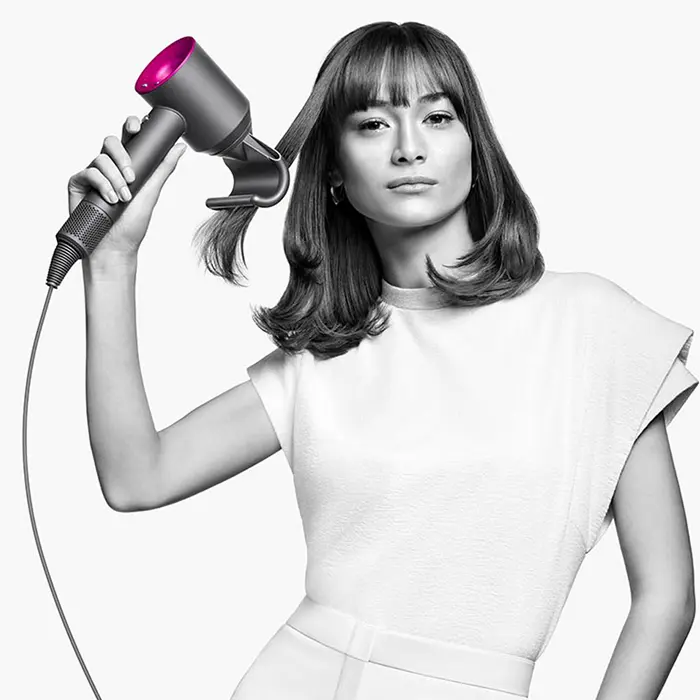
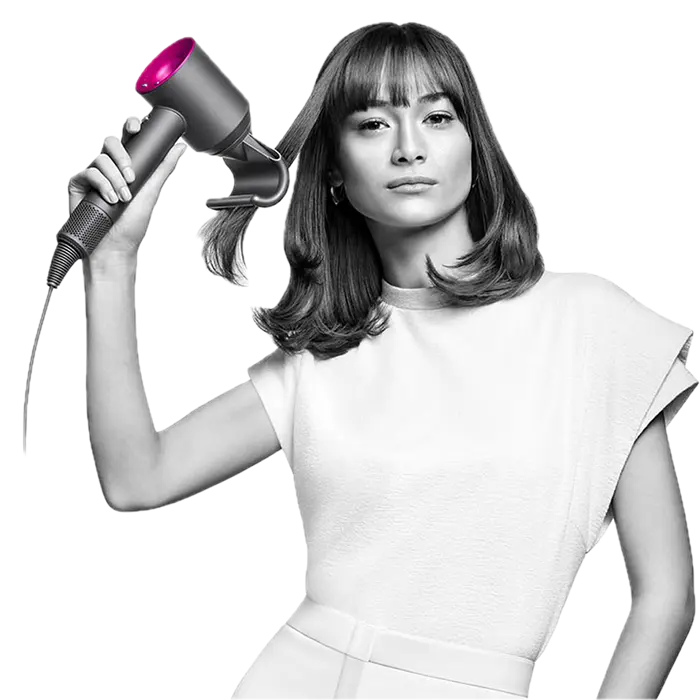
Add files via upload

diff --git a/dyson/index.html b/dyson/index.html
@@ -123,10 +123,10 @@
             <p class="hero__text text">
               Идеальная укладка для всех типов волос вместе с Dyson
             </p>
-            <button class="hero__button text">Подробнее</button>
-            <picture>
+            <a class="hero__button text">Подробнее</a>
+            <picture class="hero__img">
+              <source srcset="./images/woman-with-dyson.webp">
               <img
-                class="hero__img"
                 width="745"
                 height="803"
                 src="./images/woman-with-dyson.png"
@@ -545,53 +545,57 @@
           </div>
         </div>
       </section>
+      <section class="development">
+        <div class="container">
+          <div class="development__container">
+            <h2 class="development__title development__title-1">Базовый вектор развития</h2>
+            <p class="development__text">Фены Dyson универсальны. Они подходят для сушки разных типов волос. Насадки из комплекта помогают создавать укладки на любой вкус. Функциональность девайсов впечатляет не меньше, чем их уникальный дизайн.</p>
+            <h2 class="development__title development__title-2">Базовый вектор развития</h2>
+            <p class="development__text">Фены Dyson универсальны. Они подходят для сушки разных типов волос. Насадки из комплекта помогают создавать укладки на любой вкус. Функциональность девайсов впечатляет не меньше, чем их уникальный дизайн.</p>
+            <h2 class="development__title development__title-3">Базовый вектор развития</h2>
+            <p class="development__text">Фены Dyson универсальны. Они подходят для сушки разных типов волос. Насадки из комплекта помогают создавать укладки на любой вкус. Функциональность девайсов впечатляет не меньше, чем их уникальный дизайн.</p>
+            <h2 class="development__title development__title-4">Базовый вектор развития</h2>
+            <p class="development__text">Фены Dyson универсальны. Они подходят для сушки разных типов волос. Насадки из комплекта помогают создавать укладки на любой вкус. Функциональность девайсов впечатляет не меньше, чем их уникальный дизайн.</p>
+            <h2 class="development__title development__title-5">Базовый вектор развития</h2>
+            <p class="development__text">Фены Dyson универсальны. Они подходят для сушки разных типов волос. Насадки из комплекта помогают создавать укладки на любой вкус. Функциональность девайсов впечатляет не меньше, чем их уникальный дизайн.</p>
+          </div>
+        </div>
+      </section>
       <section class="about">
         <div class="container">
           <div class="about__container">
-            <!-- <h2 class="about-title-1">Базовый вектор развития</h2>
-            <p class="about-text-1">Фены Dyson универсальны. Они подходят для сушки разных типов волос. Насадки из комплекта помогают создавать укладки на любой вкус. Функциональность девайсов впечатляет не меньше, чем их уникальный дизайн.</p>
-            <h2 class="about-title-2">Базовый вектор развития</h2>
-            <p class="about-text-2">Фены Dyson универсальны. Они подходят для сушки разных типов волос. Насадки из комплекта помогают создавать укладки на любой вкус. Функциональность девайсов впечатляет не меньше, чем их уникальный дизайн.</p>
-            <h2 class="about-title-3">Базовый вектор развития</h2>
-            <p class="about-text-3">Фены Dyson универсальны. Они подходят для сушки разных типов волос. Насадки из комплекта помогают создавать укладки на любой вкус. Функциональность девайсов впечатляет не меньше, чем их уникальный дизайн.</p>
-            <h2 class="about-title-4">Базовый вектор развития</h2>
-            <p class="about-text-4">Фены Dyson универсальны. Они подходят для сушки разных типов волос. Насадки из комплекта помогают создавать укладки на любой вкус. Функциональность девайсов впечатляет не меньше, чем их уникальный дизайн.</p>
-            <h2 class="about-title-5">Базовый вектор развития</h2>
-            <p class="about-text-5">Фены Dyson универсальны. Они подходят для сушки разных типов волос. Насадки из комплекта помогают создавать укладки на любой вкус. Функциональность девайсов впечатляет не меньше, чем их уникальный дизайн.</p> -->
             <h2 class="about__title title-42fz">
               Мнение экспертов о технике Dyson
             </h2>
-            <div class="about__container-text">
-              <p class="about__text text">
-                Сегодня многие стилисты и салоны красоты в своей работе
-                используют технику от Dyson.
-              </p>
-              <p class="about__text text">
-                Несмотря на высокую стоимость, техника Dyson помогает экономить.
-                Мастера тратят меньше времени на сушку и укладку волос,
-                благодаря чему успевают обслужить большее количество клиентов.
-                Также устройства от Dyson потребляют значительно меньше
-                электроэнергии, не теряя свою мощность.
-              </p>
-              <p class="about__text text">
-                Фены Dyson универсальны. Они подходят для сушки разных типов
-                волос. Насадки из комплекта помогают создавать укладки на любой
-                вкус. Функциональность девайсов впечатляет не меньше, чем их
-                уникальный дизайн.
-              </p>
-              <p class="about__text text">
-                Ведущие стилисты отмечают, что техника Dyson для ухода за
-                волосами идеально подходят для длительной работы за счет своей
-                эргономичности. А за счет бесшумности инновационного мотора
-                использование устройств стало максимально комфортным.
-              </p>
-            </div>
+            <p class="about__text text">
+              Сегодня многие стилисты и салоны красоты в своей работе используют
+              технику от Dyson.
+            </p>
+            <p class="about__text text">
+              Несмотря на высокую стоимость, техника Dyson помогает экономить.
+              Мастера тратят меньше времени на сушку и укладку волос, благодаря
+              чему успевают обслужить большее количество клиентов. Также
+              устройства от Dyson потребляют значительно меньше электроэнергии,
+              не теряя свою мощность.
+            </p>
+            <p class="about__text text">
+              Фены Dyson универсальны. Они подходят для сушки разных типов
+              волос. Насадки из комплекта помогают создавать укладки на любой
+              вкус. Функциональность девайсов впечатляет не меньше, чем их
+              уникальный дизайн.
+            </p>
+            <p class="about__text text">
+              Ведущие стилисты отмечают, что техника Dyson для ухода за волосами
+              идеально подходят для длительной работы за счет своей
+              эргономичности. А за счет бесшумности инновационного мотора
+              использование устройств стало максимально комфортным.
+            </p>
             <picture class="about__img">
               <source srcset="./images/woman-about.webp" />
               <img
-              width="700"
-              height="700"
-              loading="lazy"
+                width="700"
+                height="700"
+                loading="lazy"
                 src="./images/woman-about.png"
                 alt="Девушка в черно-белом цвете показывает действие фена dyson с специальной насадкой на своих волосах"
               />

diff --git a/dyson/css/block/hero.css b/dyson/css/block/hero.css
@@ -8,37 +8,41 @@
   display: flex;
   flex-direction: column;
   justify-content: center;
-  padding: clamp(80px, -2.8rem + 20vw, 400px) 0 clamp(285px, 14.99rem + 7.2vw, 400px);
+  padding: clamp(50px, -8.413rem + 32.05vw, 250px) 0 clamp(178px, 7.317rem + 10.58vw, 244px);
 }
 
 
 .hero__title {
+  /* minwidth 576px maxwidth 1200px*/
+  max-width: clamp(290px, 2.779rem + 42.63vw, 556px);
   position: relative;
-  font-size: 46px;
+  /* minwidth 576px maxwidth 1200px*/
+  font-size: clamp(24px, 0.231rem + 3.53vw, 46px);
   line-height: 103%;
-  padding-bottom: 40px;
+  /* minwidth 576px maxwidth 1200px*/
+  margin-bottom: clamp(16px, -0.385rem + 3.85vw, 40px);
   z-index: var(--layer-2);
 }
 
 .hero__text {
-  position: relative;
-  font-size: 26px;
+  /* minwidth 576px maxwidth 1200px*/
+  max-width: clamp(170px, -11.529rem + 61.54vw, 554px);
+  /* minwidth 576px maxwidth 1200px*/
+  font-size: clamp(12px, -0.058rem + 2.24vw, 26px);
   line-height: 130%;
-  padding-bottom: 90px;
+  margin-bottom: clamp(30px, -1.587rem + 9.62vw, 90px);
   z-index: var(--layer-2);
 }
 
 .hero__button {
-  position: relative;
-  font-size: 24px;
+  max-width: clamp(141px, 3.389rem + 15.06vw, 235px);
+  /* minwidth 576px maxwidth 1200px*/
+  font-size: clamp(16px, 0.538rem + 1.28vw, 24px);
   line-height: 100%;
   color: var(--main-color);
-  width: 235px;
-  height: 64px;
+  /* minwidth 576px maxwidth 1200px*/
+  padding: clamp(7px, -0.082rem + 1.44vw, 16px) clamp(27px, 0.245rem + 4.01vw, 57px);
   border-radius: 3px;
-  display: flex;
-  justify-content: center;
-  align-items: center;
   background-color: var(--accent-color);
   transition: opacity var(--transition-time);
 }
@@ -54,4 +58,13 @@
   position: absolute;
   right: 0;
   bottom: 0;
+  width: clamp(17.5rem, -9.327rem + 74.52vw, 46.563rem);
+  height: auto;
+  pointer-events: none;
+}
+
+.hero__img img {
+  width: 100%;
+  height: auto;
+  display: block;
 }

diff --git a/dyson/css/block/development.css b/dyson/css/block/development.css
@@ -1,0 +1,70 @@
+.development {
+  display: none;
+  background-color: var(--main-color-grey);
+}
+
+@media (width <= 768px) {
+  .development {
+    display: block;
+  }
+}
+
+@media (width > 576px) {
+  .development__container {
+    padding: 60px 0 70px;
+  }
+}
+@media (width <= 576px) {
+  .development__container {
+    padding: 46px 0;
+  }
+}
+
+.development__text {
+  font-family: var(--font-family);
+  font-weight: 300;
+  font-size: 12px;
+  line-height: 140%;
+}
+
+@media (width >576px) {
+  .development__text {
+    margin-bottom: 40px;
+  }
+
+}
+@media (width <=576px) {
+  .development__text {
+    margin-bottom: 30px;
+  }
+}
+
+.development__title  {
+  font-family: var(--font-family-namu);
+}
+@media (width >576px) {
+  .development__title {
+    margin-bottom: 20px;
+  }
+}
+@media (width <= 576px) {
+  .development__title {
+    margin-bottom: 14px;
+  }
+}
+
+.development__title-1 {
+  font-size: clamp(20px, 0.125rem + 3.13vw, 26px);
+}
+.development__title-2 {
+  font-size: clamp(17px, 0.125rem + 2.6vw, 22px);
+}
+.development__title-3 {
+  font-size: clamp(16px, 0.25rem + 2.08vw, 20px);
+}
+.development__title-4 {
+  font-size: clamp(15px, 0.75rem + 0.52vw, 16px);
+}
+.development__title-5 {
+  font-size: clamp(13px, 0.625rem + 0.52vw, 14px);
+}

diff --git a/dyson/css/block/about.css b/dyson/css/block/about.css
@@ -3,7 +3,7 @@
 }
 
 .about__container {
-  padding: 150px 0 46px;
+  padding: clamp(2.875rem, -3.125rem + 16.67vw, 9.375rem) 0 ;
   position: relative;
 }
 
@@ -21,22 +21,49 @@
     margin-bottom: 20px;
   }
 }
+@media (width <=576px) {
+  .about__title {
+    min-width: 370px;
+  }
+}
 
 .about__text {
+  position: relative;
+  z-index: 5;
+  max-width: 670px;
   line-height: 140%;
-  font-size: 18px;
-  margin-bottom: 14px;
+  margin-bottom: clamp(1rem, 0.61rem + 1vw, 2rem);
+  max-width: 670px;
+}
+
+@media (width > 768px) {
+  .about__text {
+    font-size: 18px;
+  }
+}
+@media (width <= 768px) {
+  .about__text {
+    font-size: 12px;
+    font-weight: 300;
+  }
 }
 
 .about__img {
   position: absolute;
   bottom: 0;
-  right: -5rem;
+  right: -80px;
   max-width: 700px;
   max-height: 700px;
+  pointer-events: none;
 }
 .about__img img {
   width: clamp(200px, 40vw, 700px);
   height: 100%;
   display: block;
+}
+
+@media (width <= 1024px) {
+  .about__img {
+    display: none;
+  }
 }

diff --git a/dyson/css/index.css b/dyson/css/index.css
@@ -8,3 +8,4 @@
 @import "./block/hero.css";
 @import "./block/category.css";
 @import "./block/about.css";
+@import "./block/development.css";

diff --git a/dyson/css/base/normalize.css b/dyson/css/base/normalize.css
@@ -3,6 +3,10 @@ html {
   -webkit-text-size-adjust: 100%;
 }
 
+html,body {
+  overflow-x: hidden;
+}
+
 *,
 ::before,
 ::after {
